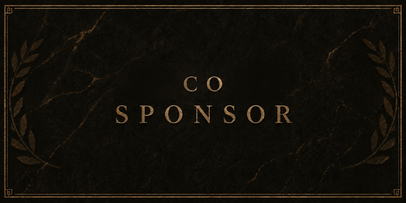
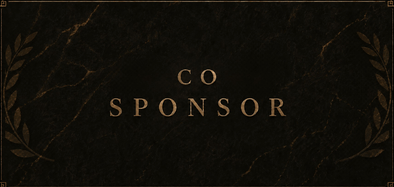
edited edges of sponsor photo

diff --git a/components/CallForSpeakers.tsx b/components/CallForSpeakers.tsx
@@ -2,7 +2,6 @@
 
 import { useEffect, useRef } from "react";
 import Image from "next/image";
-import { Mic } from "lucide-react";
 import SpeakerCarousel from "./SpeakerCarousel";
 import { gsap } from "gsap";
 import { ScrollTrigger } from "gsap/ScrollTrigger";

diff --git a/components/AboutDevhost.tsx b/components/AboutDevhost.tsx
@@ -2,7 +2,6 @@
 
 import { useEffect, useRef } from "react";
 import Image from "next/image";
-import { Download } from "lucide-react";
 import { gsap } from "gsap";
 import { ScrollTrigger } from "gsap/ScrollTrigger";
 import Button from "./Button";
